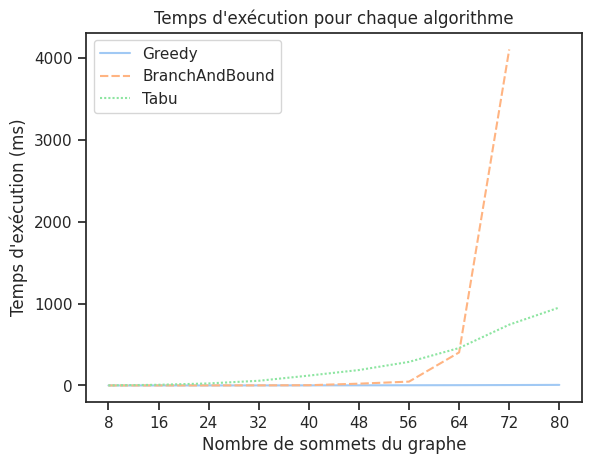
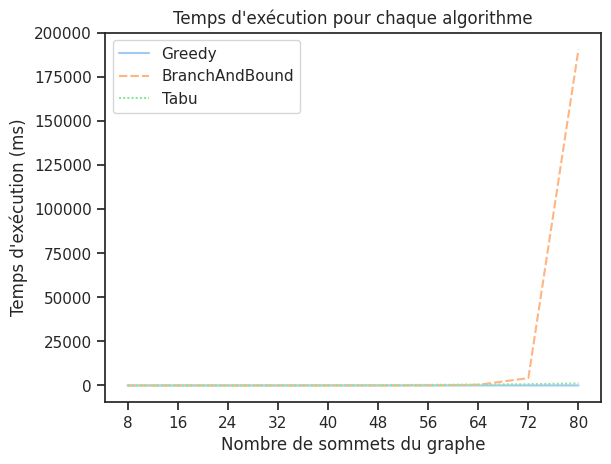
Measure execution times with graph size of 80 for branch and bound

diff --git a/TP2/analyze.py b/TP2/analyze.py
@@ -22,7 +22,7 @@ ALGORITHMS = {
 }
 MAX_GRAPH_SIZES = {
     'Greedy': None,
-    'BranchAndBound': 72,
+    'BranchAndBound': None,
     'Tabu': None,
 }
 THEORETICAL_COMPLEXITY_POWERS = {

diff --git a/TP2/analysis/execution_times.md b/TP2/analysis/execution_times.md
@@ -1,12 +1,12 @@
-|   GraphSize |    Greedy |   BranchAndBound |       Tabu |
-|------------:|----------:|-----------------:|-----------:|
-|           8 | 0.0153991 |         0.028014 |   0.957156 |
-|          16 | 0.0756719 |         0.13885  |   8.03534  |
-|          24 | 0.220818  |         0.393747 |  24.6922   |
-|          32 | 0.486362  |         1.12316  |  57.1545   |
-|          40 | 0.942735  |         2.93894  | 120.47     |
-|          48 | 1.57891   |        21.7268   | 188.471    |
-|          56 | 2.38435   |        46.8945   | 288.194    |
-|          64 | 3.49712   |       404.022    | 457.694    |
-|          72 | 4.9526    |      4107.79     | 743.085    |
-|          80 | 6.90972   |       nan        | 953.403    |
+|   GraphSize |    Greedy |   BranchAndBound |        Tabu |
+|------------:|----------:|-----------------:|------------:|
+|           8 | 0.0148663 |         0.025566 |    0.965997 |
+|          16 | 0.0754606 |         0.133376 |    7.95536  |
+|          24 | 0.217963  |         0.373176 |   25.1684   |
+|          32 | 0.491626  |         1.08469  |   56.0672   |
+|          40 | 0.95361   |         2.63726  |  115.757    |
+|          48 | 1.57604   |        19.7127   |  207.555    |
+|          56 | 2.43196   |        45.4466   |  310.916    |
+|          64 | 3.51561   |       387.238    |  462.048    |
+|          72 | 4.93316   |      4168.2      |  680.913    |
+|          80 | 6.74151   |    190760        | 1118.81     |

diff --git a/TP2/analysis/color_counts.md b/TP2/analysis/color_counts.md
@@ -3,10 +3,10 @@
 |           8 |      5.9 |              5.9 |    5.9 |
 |          16 |     10.2 |             10.2 |   10.2 |
 |          24 |     13.2 |             13.2 |   13.2 |
-|          32 |     16.6 |             16.4 |   16.5 |
-|          40 |     19.5 |             19.1 |   19.3 |
+|          32 |     16.6 |             16.4 |   16.6 |
+|          40 |     19.5 |             19.1 |   19.2 |
 |          48 |     22.7 |             21.8 |   22.3 |
-|          56 |     25.6 |             24.5 |   25.1 |
-|          64 |     29.3 |             27.1 |   28.5 |
-|          72 |     32.1 |             29.6 |   31   |
-|          80 |     35.4 |            nan   |   33.9 |
+|          56 |     25.6 |             24.5 |   25.2 |
+|          64 |     29.3 |             27.1 |   28.7 |
+|          72 |     32.1 |             29.6 |   31.3 |
+|          80 |     35.4 |             31.8 |   34.2 |
